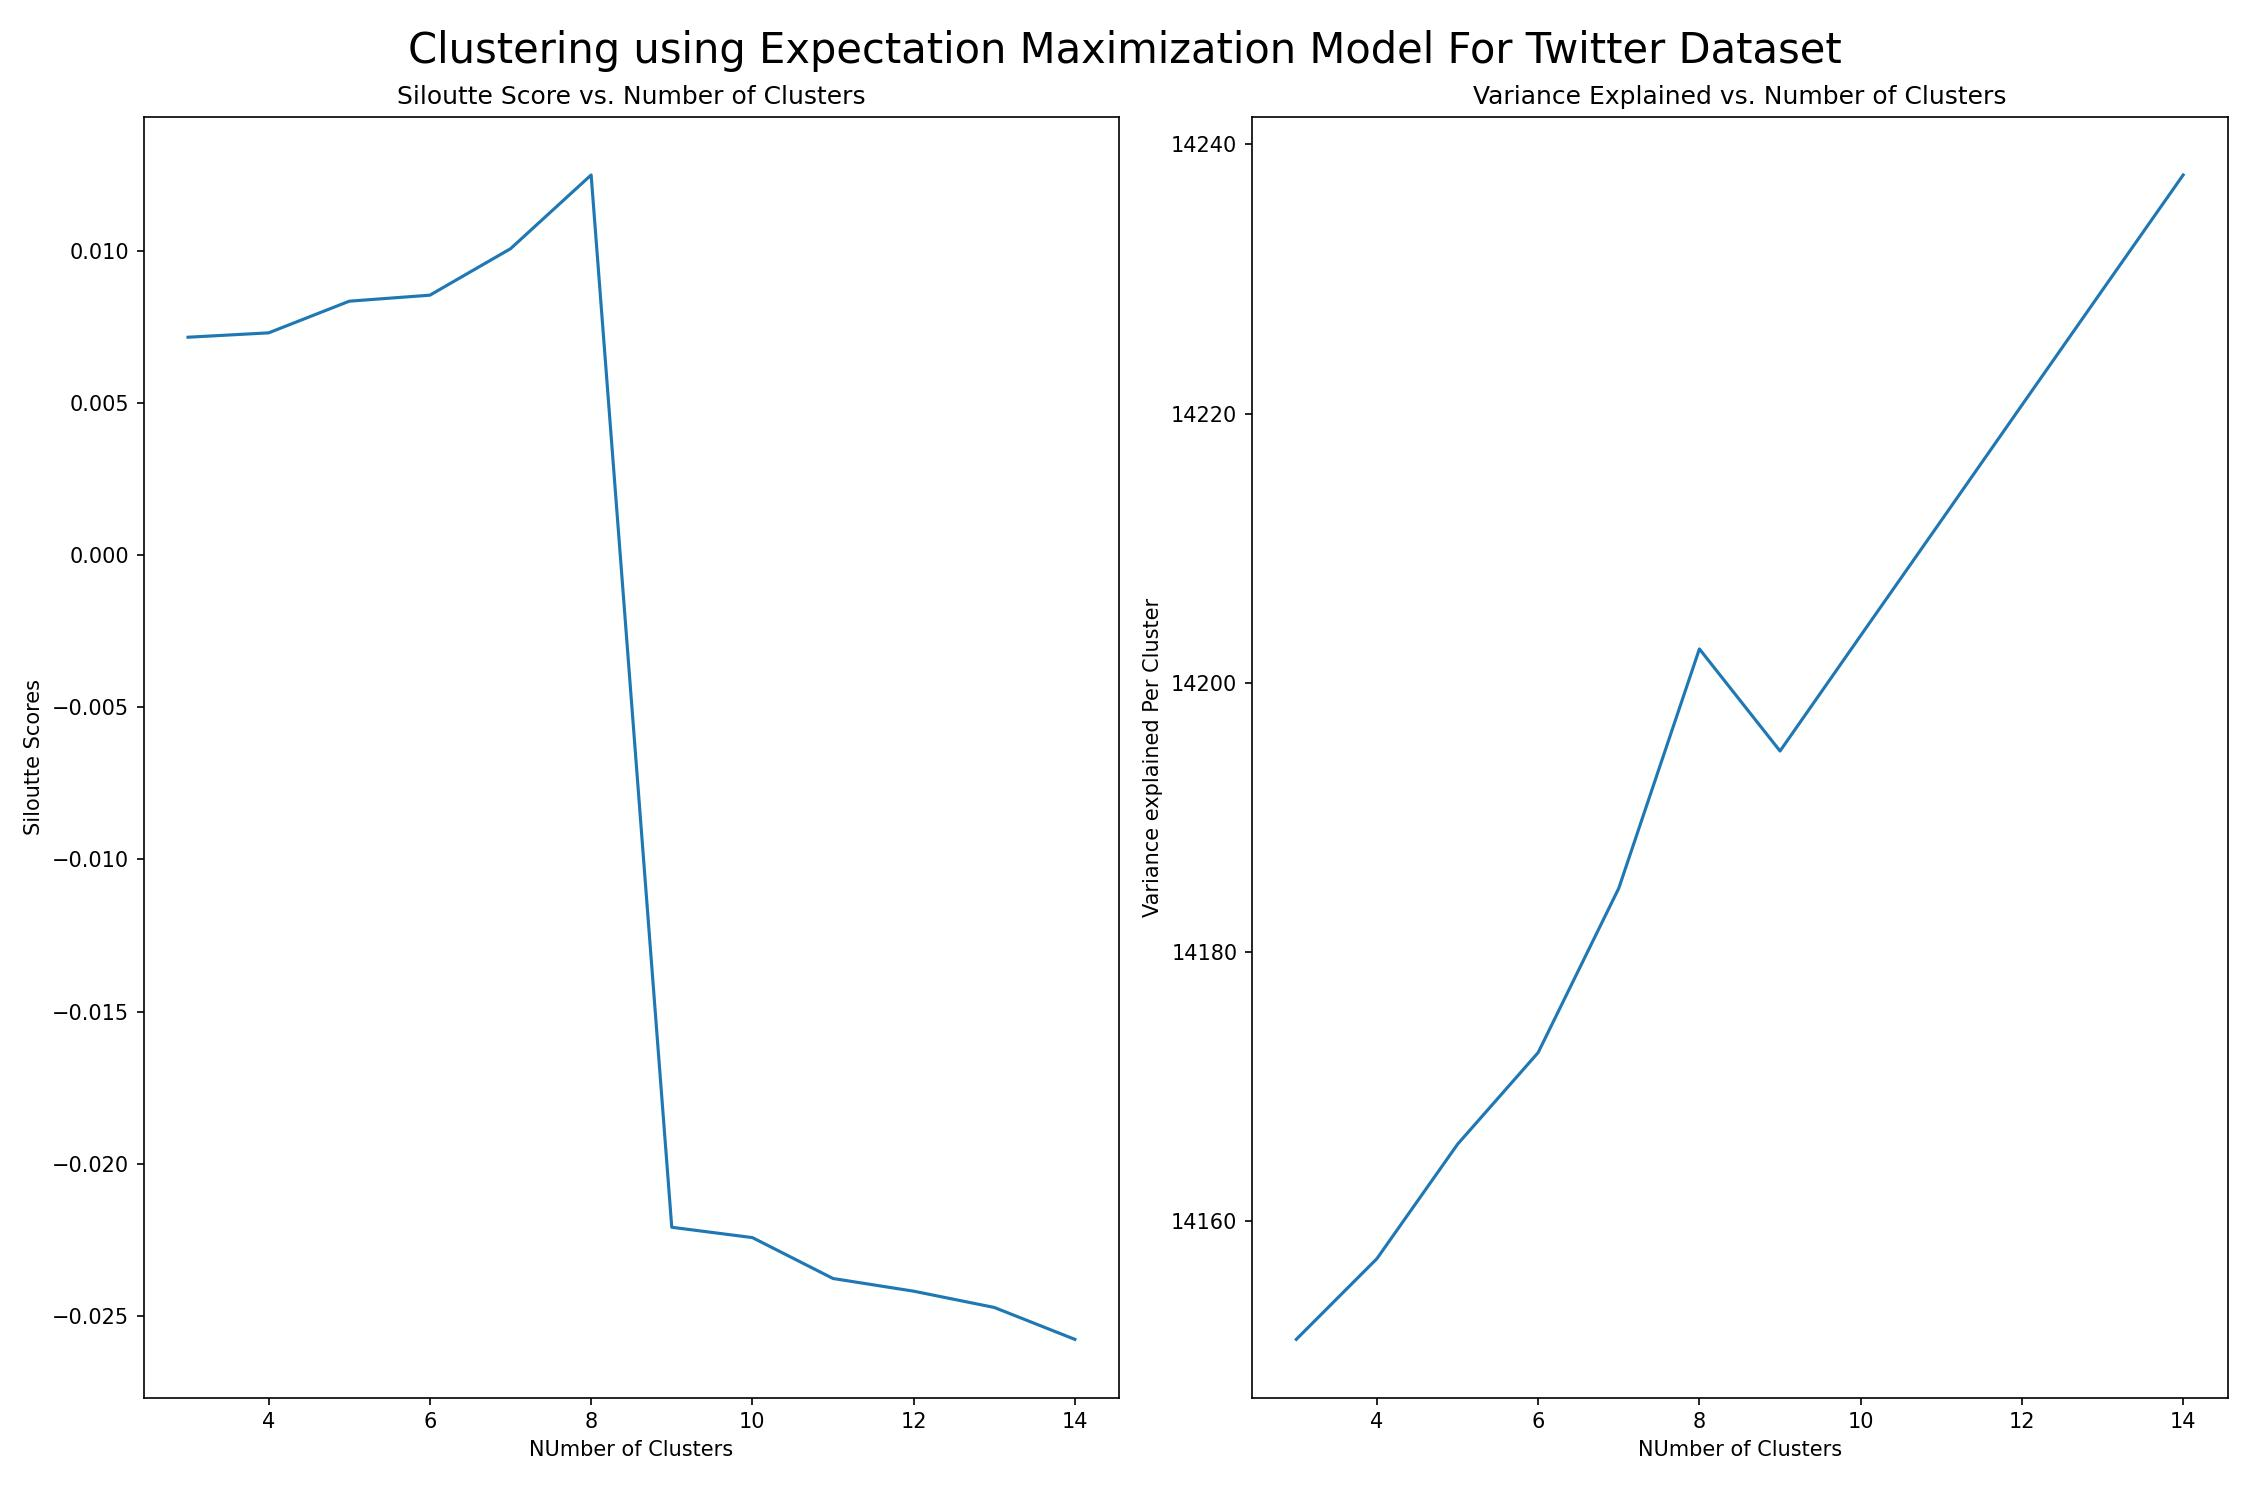
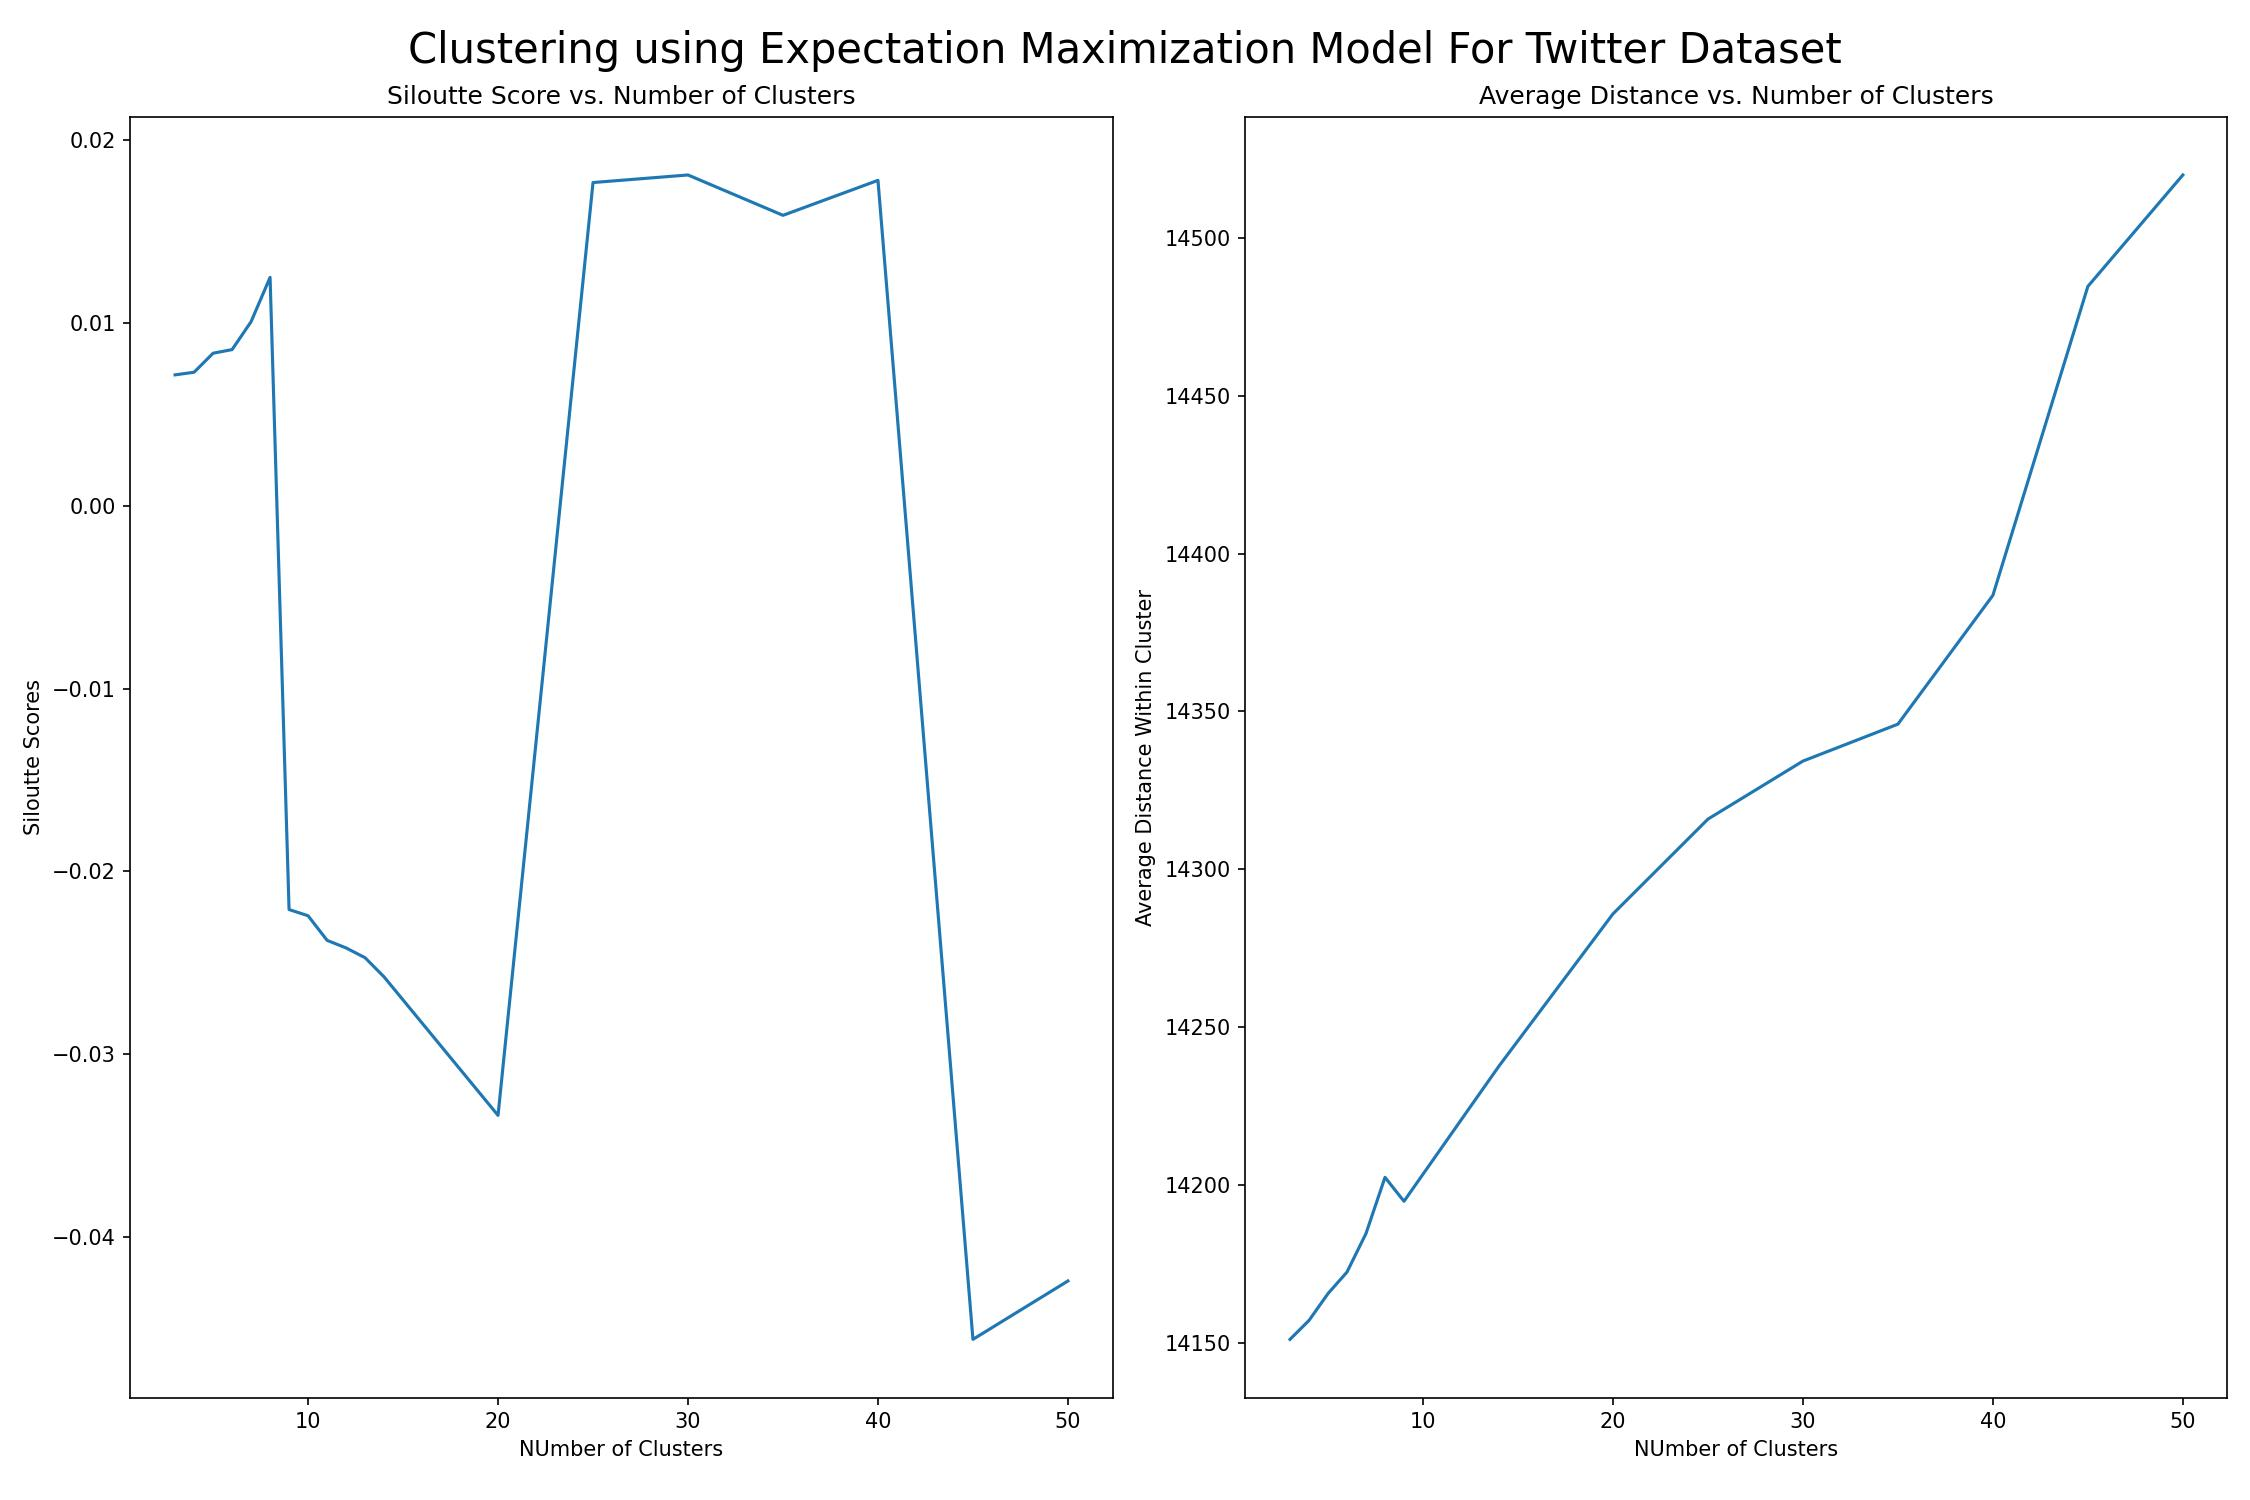
update

diff --git a/unsupervised_learning/src/visualization/visualize.py b/unsupervised_learning/src/visualization/visualize.py
@@ -5,7 +5,7 @@ from src.config.config import NUM_CLUSTERS_LIST
 
 
 def kmeans_visuals(siloutte_scores, average_distance_cluster, dataset_name):
-    """Plot the Siloutte scores and variance explained per cluster for k means"""
+    """Plot the Siloutte scores and average distance within cluster for k means"""
     fig, (ax1, ax2) = plt.subplots(1, 2, figsize=(15, 10))
     fig.suptitle(f"Clustering {dataset_name} with K-Means Clustering")
     # plot Siloutte Scores vs number of clusters
@@ -13,7 +13,7 @@ def kmeans_visuals(siloutte_scores, average_distance_cluster, dataset_name):
     ax1.set_xlabel("Number of Clusters")
     ax1.set_ylabel("Siloutte Scores")
     ax1.set_title("Siloutte Score vs. # Clusters")
-    # plot the variance explained per cluster
+    # plot the average distance within cluster
     ax2.plot(NUM_CLUSTERS_LIST, average_distance_cluster)
     ax2.set_xlabel("NUmber of Clusters")
     ax2.set_ylabel("Average Distance Between Points")
@@ -25,7 +25,7 @@ def expectation_maximization_visuals(
     siloutte_scores, average_distance_cluster, dataset_name
 ):
     """
-    Plot the aic, bic siloutte scores, and variance explained per cluster
+    Plot the aic, bic siloutte scores, and average distance within cluster
     for expectation maximization
     """
     fig, (ax1, ax2) = plt.subplots(1, 2, figsize=(15, 10))
@@ -35,11 +35,11 @@ def expectation_maximization_visuals(
     ax1.set_xlabel("NUmber of Clusters")
     ax1.set_ylabel("Siloutte Scores")
     ax1.set_title("Siloutte Score vs. Number of Clusters")
-    # plot the variance explained per cluster
+    # plot the average distance within cluster
     ax2.plot(NUM_CLUSTERS_LIST, average_distance_cluster)
     ax2.set_xlabel("NUmber of Clusters")
-    ax2.set_ylabel("Variance explained Per Cluster")
-    ax2.set_title("Variance Explained vs. Number of Clusters")
+    ax2.set_ylabel("Average Distance Within Cluster")
+    ax2.set_title("Average Distance vs. Number of Clusters")
     return plt
 
 
@@ -70,7 +70,7 @@ def explained_variance_plot(explained_variance_ratio, model_name, threshold=0.85
         ax.yaxis.set_tick_params(width=2, length=12)
         ax.set_xlim([-1, 150])
         ax.set_xlabel("Principal Component")
-        ax.set_ylabel("Variance Explained (%)")
+        ax.set_ylabel("Average Distance Within Cluster (%)")
         plt.title(f"Explained Variance Per Component with {model_name}")
     except Exception:  # pylint: disable=broad-except
         pass

diff --git a/unsupervised_learning/src/main.py b/unsupervised_learning/src/main.py
@@ -111,9 +111,9 @@ def all_analysis(dataset_name):
     # perform clustering again on the reduced dataset
     cluster_data_map = defaultdict(lambda: defaultdict(lambda: dict))
     optimal_num_clusters = (
-        {"K-means": 5, "Expectation Maximization": 10}
+        {"K-means": 40, "Expectation Maximization": 45}
         if dataset_name == "NBA"
-        else {"K-means": 8, "Expectation Maximization": 10}
+        else {"K-means": 35, "Expectation Maximization": 40}
     )
 
     for cluster_model_name in CLUSTERING_MODEL_NAMES:
@@ -239,5 +239,5 @@ if __name__ == "__main__":
         "NBA": preprocess_nba_players_data,
         "Twitter": preprocess_tweets,
     }
-    all_analysis("NBA")
+    # all_analysis("NBA")
     all_analysis("Twitter")

diff --git a/unsupervised_learning/src/config/config.py b/unsupervised_learning/src/config/config.py
@@ -36,7 +36,7 @@ ALL_TEAMS = [
     "BRK",
 ]
 
-NUM_CLUSTERS_LIST = np.arange(3, 15, 1)
+NUM_CLUSTERS_LIST = list(np.arange(3, 15, 1)) + [20, 25, 30, 35, 40, 45, 50]
 THRESHOLD_MAP = {
     "PCA": 0.85,
     "ICA": 5,
